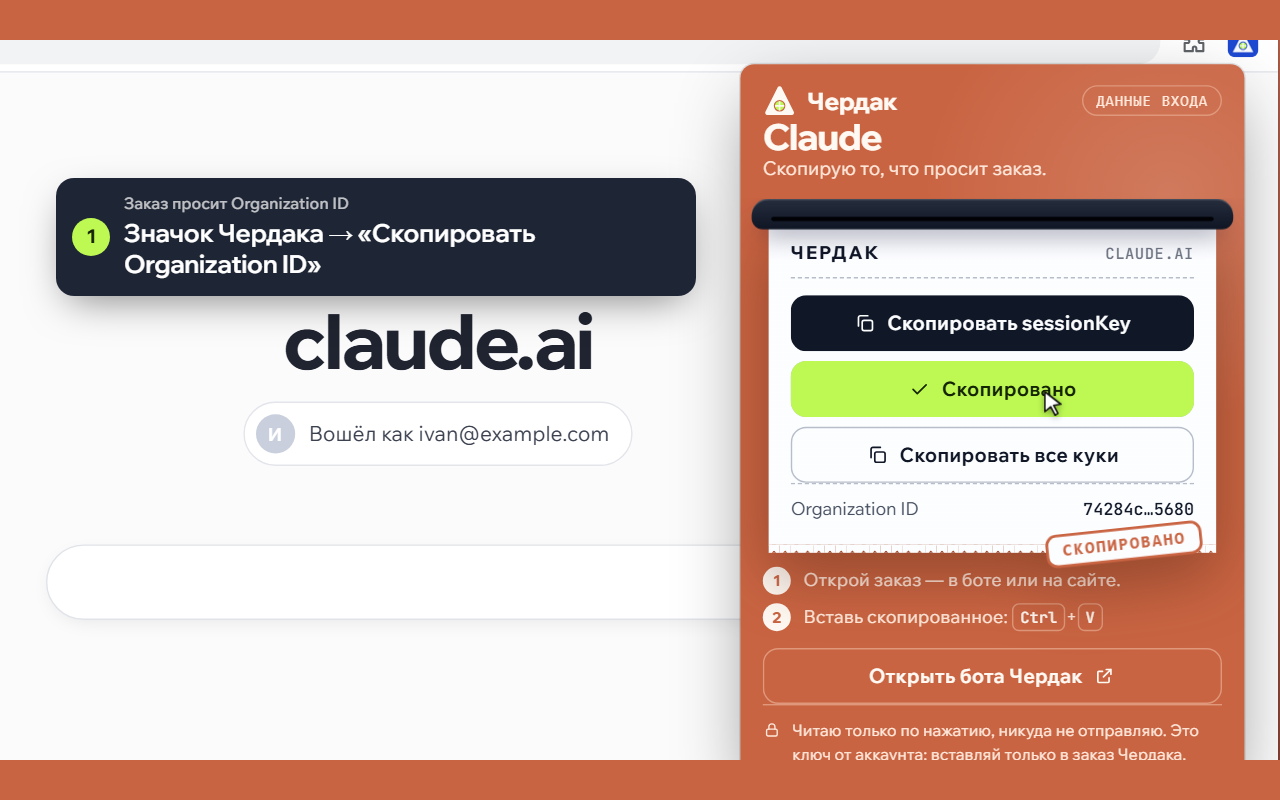
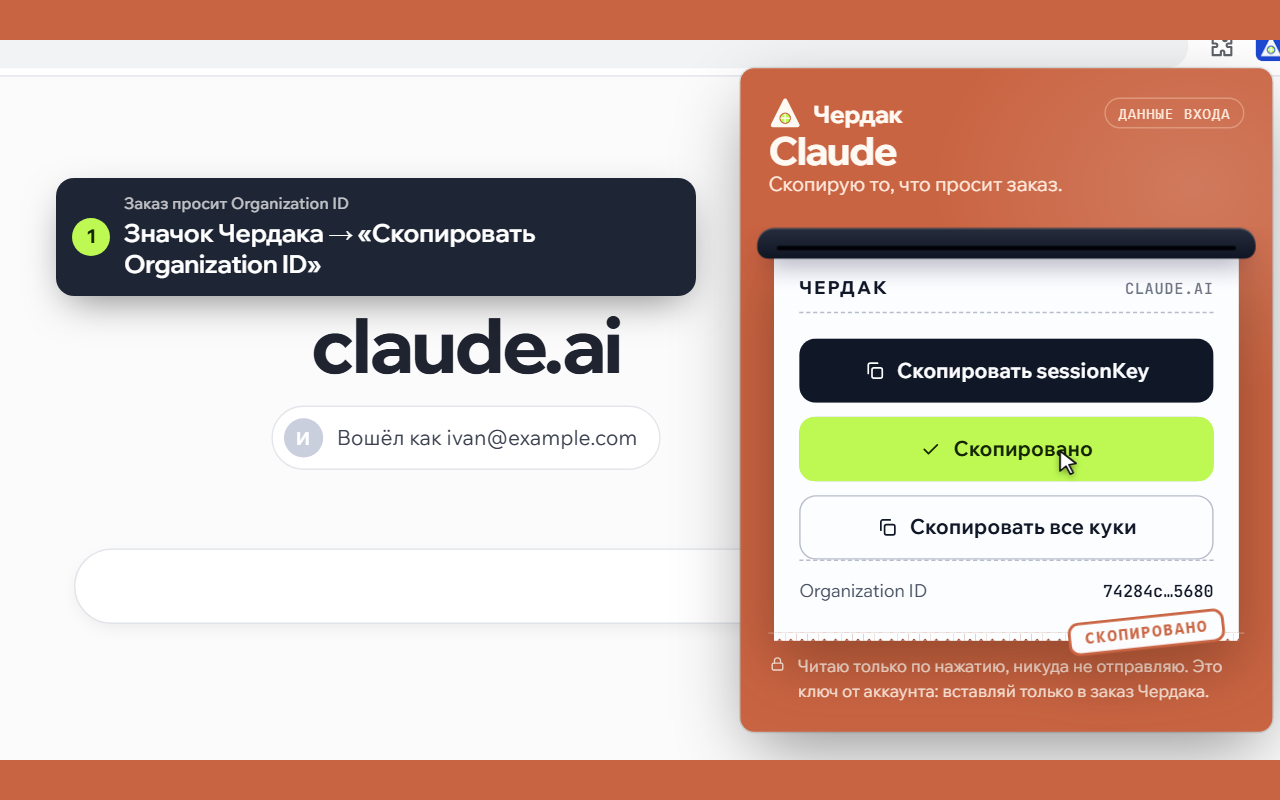
Чердак 1.2.0: свободнее — шире, крупнее кнопки, больше воздуха

Changed region(s): [[0.5625, 0.0312, 1.0, 0.9688], [0.2188, 0.375, 0.5, 0.4688], [0.1875, 0.5, 0.5, 0.5938]]

diff --git a/extension/popup.css b/extension/popup.css
@@ -71,7 +71,7 @@ html, body { margin: 0; }
 html { scrollbar-width: none; }
 ::-webkit-scrollbar { display: none; }
 body {
-  width: 360px;
+  width: 380px;
   background: var(--cobalt);
   color: var(--on-cobalt);
   font: 400 14px/1.5 var(--font-body);
@@ -88,7 +88,7 @@ a { color: inherit; text-decoration: none; }
 
 .field {
   position: relative; isolation: isolate;
-  padding: 14px 16px 14px;
+  padding: 20px 20px 20px;
   transition: background-color 300ms var(--ease);
 }
 .field::before { /* лампа над прилавком, как на сайте */
@@ -107,11 +107,11 @@ a { color: inherit; text-decoration: none; }
   color: var(--on-cobalt-2); border: 1px solid var(--on-cobalt-line); border-radius: 999px; padding: 5px 9px;
 }
 
-h1 { margin-top: 14px; font: 750 26px/1.05 var(--font-display); letter-spacing: -0.035em; }
-.lead { margin-top: 6px; color: var(--on-cobalt-2); font-size: 13.5px; line-height: 1.4; text-wrap: pretty; }
+h1 { margin-top: 20px; font: 750 28px/1.05 var(--font-display); letter-spacing: -0.035em; }
+.lead { margin-top: 8px; color: var(--on-cobalt-2); font-size: 14px; line-height: 1.45; text-wrap: pretty; }
 
 /* ── чек ─────────────────────────────────────────────── */
-.slip { position: relative; margin-top: 12px; clip-path: inset(0 -40px -80px -40px); } /* над прорезью чек не виден */
+.slip { position: relative; margin-top: 20px; clip-path: inset(0 -40px -80px -40px); } /* над прорезью чек не виден */
 .slip-slot {
   position: relative; z-index: 2; height: 22px; margin: 0 -8px; border-radius: 12px 12px 8px 8px;
   background: linear-gradient(180deg, var(--slot-hi), var(--slot-lo));
@@ -119,7 +119,7 @@ h1 { margin-top: 14px; font: 750 26px/1.05 var(--font-display); letter-spacing: 
 }
 .slip-slot::after { content: ""; position: absolute; left: 14px; right: 14px; bottom: 6px; height: 3px; border-radius: 3px; background: oklch(0.08 0.02 266); }
 .slip-paper {
-  position: relative; margin: -8px 4px 0; padding: 18px 16px 16px; color: var(--ink);
+  position: relative; margin: -8px 4px 0; padding: 22px 18px 20px; color: var(--ink);
   background: linear-gradient(180deg, var(--slip-top), var(--slip) 30px);
   filter: drop-shadow(0 16px 22px var(--shadow));
   animation: print 700ms var(--ease) both;
@@ -143,11 +143,11 @@ h1 { margin-top: 14px; font: 750 26px/1.05 var(--font-display); letter-spacing: 
 .slip-note b { display: block; margin-bottom: 2px; }
 
 /* Кнопки чека: у каждого сервиса свои — то, что просит заказ. Первая главная. */
-.actions { display: grid; gap: 7px; margin-top: 12px; }
+.actions { display: grid; gap: 10px; margin-top: 18px; }
 .btn {
   display: inline-flex; align-items: center; justify-content: center; gap: 8px;
-  min-height: 40px; padding: 0 16px; border: 1px solid transparent; border-radius: 11px;
-  font: 650 14.5px/1 var(--font-body); cursor: pointer; white-space: nowrap;
+  min-height: 46px; padding: 0 16px; border: 1px solid transparent; border-radius: 12px;
+  font: 650 15px/1 var(--font-body); cursor: pointer; white-space: nowrap;
   transition: background-color 150ms var(--ease), border-color 150ms var(--ease), color 150ms var(--ease), transform 80ms var(--ease);
 }
 .btn:active { transform: translateY(1px); }
@@ -164,7 +164,7 @@ h1 { margin-top: 14px; font: 750 26px/1.05 var(--font-display); letter-spacing: 
 .btn-site { justify-content: space-between; }
 .btn-site small { font: 500 12px/1 var(--font-mono); color: var(--ink-3); }
 
-.copied { display: flex; justify-content: space-between; align-items: baseline; gap: 10px; margin-top: 10px; padding-top: 8px; border-top: 1px dashed var(--line-2); font-size: 12.5px; color: var(--ink-2); }
+.copied { display: flex; justify-content: space-between; align-items: baseline; gap: 10px; margin-top: 16px; padding-top: 12px; border-top: 1px dashed var(--line-2); font-size: 12.5px; color: var(--ink-2); }
 .copied span { white-space: nowrap; }
 .copied b { font: 500 12px/1.4 var(--font-mono); color: var(--ink); text-align: right; word-break: break-all; }
 
@@ -180,16 +180,11 @@ body[data-service="grok"] .slip-stamp { border-color: var(--ink); color: var(--i
 @keyframes stamp { from { transform: rotate(-6deg) scale(1.6); opacity: 0; } to { transform: rotate(-6deg) scale(1); opacity: 1; } }
 
 /* ── дальше ──────────────────────────────────────────── */
-.next { margin-top: 16px; }
-.next ol { padding: 0; list-style: none; counter-reset: step; display: grid; gap: 6px; margin-bottom: 12px; }
-.next li { counter-increment: step; display: grid; grid-template-columns: 20px 1fr; gap: 9px; color: var(--on-cobalt-2); font-size: 13px; line-height: 1.4; }
-.next li::before {
-  content: counter(step); display: grid; place-items: center; width: 20px; height: 20px; border-radius: 50%;
-  background: var(--on-cobalt); color: var(--cobalt); font: 750 11px/1 var(--font-display);
-}
-kbd { font: 500 11px/1 var(--font-mono); padding: 2px 5px; border: 1px solid var(--on-cobalt-line); border-radius: 5px; color: var(--on-cobalt); }
+.next { margin-top: 24px; }
+.paste { margin: 0 0 14px; color: var(--on-cobalt); font-size: 14px; line-height: 1.5; }
+kbd { font: 500 12px/1 var(--font-mono); padding: 2px 6px; border: 1px solid var(--on-cobalt-line); border-radius: 5px; color: var(--on-cobalt); }
 
-.fine { display: flex; gap: 8px; margin-top: 12px; padding-top: 10px; border-top: 1px solid var(--on-cobalt-line); color: var(--on-cobalt-2); font-size: 11.5px; line-height: 1.45; }
+.fine { display: flex; gap: 8px; margin-top: 22px; padding-top: 14px; border-top: 1px solid var(--on-cobalt-line); color: var(--on-cobalt-2); font-size: 12px; line-height: 1.5; }
 .fine .i { margin-top: 1px; width: 13px; height: 13px; }
 
 @media (prefers-reduced-motion: reduce) { *, *::before, *::after { animation: none !important; transition: none !important; } }

diff --git a/extension/popup.js b/extension/popup.js
@@ -126,8 +126,8 @@ const PROBLEMS = {
 
 function setNote(problem) {
   const note = $("note");
-  // Пока копировать нечего, шаги «вставь в заказ» ни к чему — и попап остаётся в 600 px.
-  $("next").hidden = Boolean(problem);
+  // Пока копировать нечего, шаги «вставь в заказ» ни к чему: их показывает только удачное копирование.
+  if (problem) { $("next").hidden = true; $("fine").hidden = false; }
   if (!problem) { note.hidden = true; return; }
   const [title, text] = (PROBLEMS[problem] ?? PROBLEMS.error)(service);
   const parts = [node("b", {}, title), text];
@@ -162,7 +162,9 @@ function showService() {
   $("lead").textContent = service.lead;
   $("slipSite").textContent = service.site;
   renderActions();
-  $("next").hidden = false;
+  // До копирования — обещание «читаю только по нажатию»; после — что делать со скопированным.
+  $("next").hidden = true;
+  $("fine").hidden = false;
 }
 
 function reprint() {
@@ -201,6 +203,8 @@ async function run(actionId, button) {
   $("copied").replaceChildren(node("span", {}, res.preview.label), node("b", {}, res.preview.value));
   $("copied").hidden = false;
   $("stamp").hidden = false;
+  $("next").hidden = false;
+  $("fine").hidden = true;
 }
 
 document.addEventListener("click", (event) => {

diff --git a/extension/popup.html b/extension/popup.html
@@ -38,16 +38,13 @@
     </div>
 
     <section class="next" id="next">
-      <ol>
-        <li><span>Открой заказ — в боте или на сайте.</span></li>
-        <li><span>Вставь скопированное: <kbd>Ctrl</kbd>+<kbd>V</kbd></span></li>
-      </ol>
+      <p class="paste">Теперь вставь это в заказ — в боте или на сайте: <kbd>Ctrl</kbd>+<kbd>V</kbd></p>
       <a class="btn btn-on-field btn-block" href="https://t.me/cherdax_bot" target="_blank" rel="noopener">
         Открыть бота Чердак <svg class="i"><use href="#i-out"/></svg>
       </a>
     </section>
 
-    <p class="fine">
+    <p class="fine" id="fine">
       <svg class="i"><use href="#i-lock"/></svg>
       <span>Читаю только по нажатию, никуда не отправляю. Это ключ от аккаунта: вставляй только в заказ Чердака.</span>
     </p>

diff --git a/CHANGELOG.md b/CHANGELOG.md
@@ -1,5 +1,10 @@
 # Версии
 
+## 1.2.0
+
+- Попап свободнее: шире (380 px), крупнее кнопки, больше воздуха между блоками.
+- До копирования внизу — «читаю только по нажатию»; после — одна строка «вставь в заказ» и кнопка бота.
+
 ## 1.1.0
 
 - Отдельная кнопка на каждое, что может попросить заказ. ChatGPT: «Скопировать сессию» и
